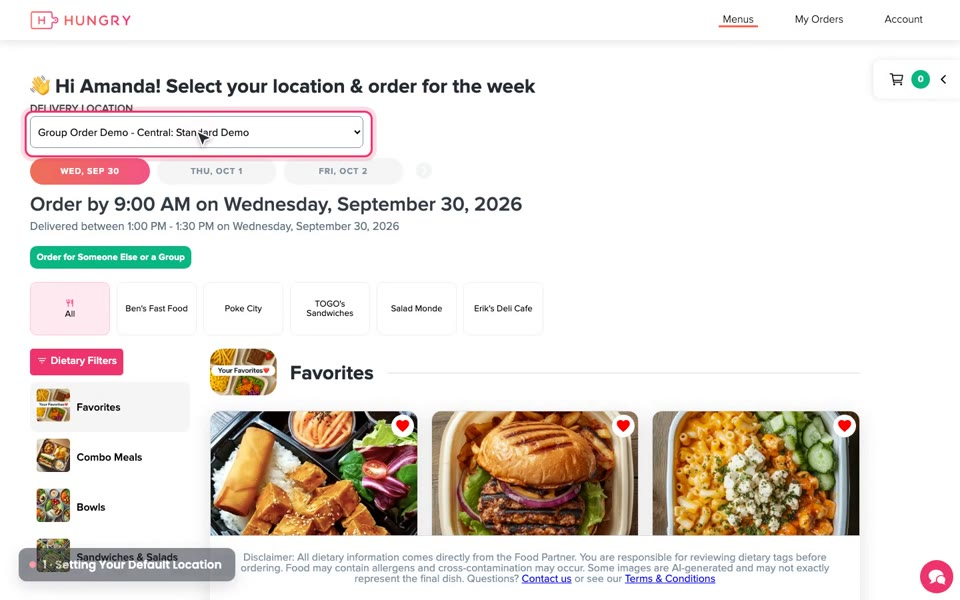
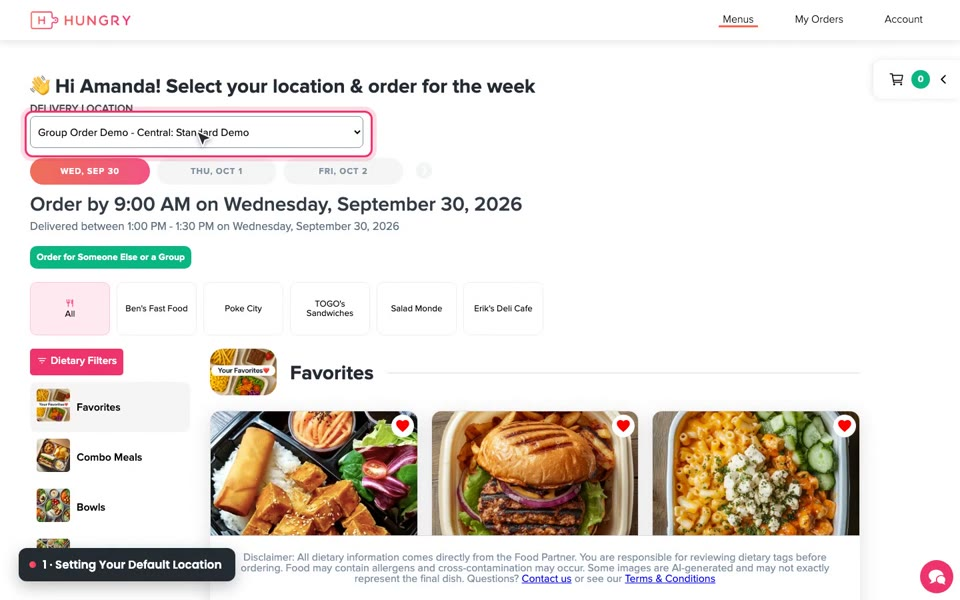
Update walkthrough video and chapter times

Changed region(s): [[0.0, 0.9, 0.25, 0.99]]

diff --git a/index.html b/index.html
@@ -296,16 +296,16 @@
 <script>
   const chapters = [
     { title: "Introduction", start: 0 },
-    { title: "Setting Your Default Location", start: 26 },
-    { title: "Setting Your Preferences", start: 52 },
-    { title: "Setting Up Allergen Alerts", start: 69 },
-    { title: "Phone Number & Email Reminders", start: 93 },
-    { title: "Navigating the Menu", start: 124 },
-    { title: "Sorting by Dietary Restrictions", start: 152 },
-    { title: "Selecting Your Meal", start: 188 },
-    { title: "Checking Out", start: 214 },
-    { title: "Managing Your Order", start: 230 },
-    { title: "Wrap-up", start: 246 }
+    { title: "Setting Your Default Location", start: 29 },
+    { title: "Setting Your Preferences", start: 59 },
+    { title: "Setting Up Allergen Alerts", start: 80 },
+    { title: "Phone Number & Email Reminders", start: 109 },
+    { title: "Navigating the Menu", start: 147 },
+    { title: "Sorting by Dietary Restrictions", start: 179 },
+    { title: "Selecting Your Meal", start: 220 },
+    { title: "Checking Out", start: 249 },
+    { title: "Managing Your Order", start: 269 },
+    { title: "Wrap-up", start: 288 }
   ];
   const video = document.getElementById("video");
   const list = document.getElementById("chapter-list");
